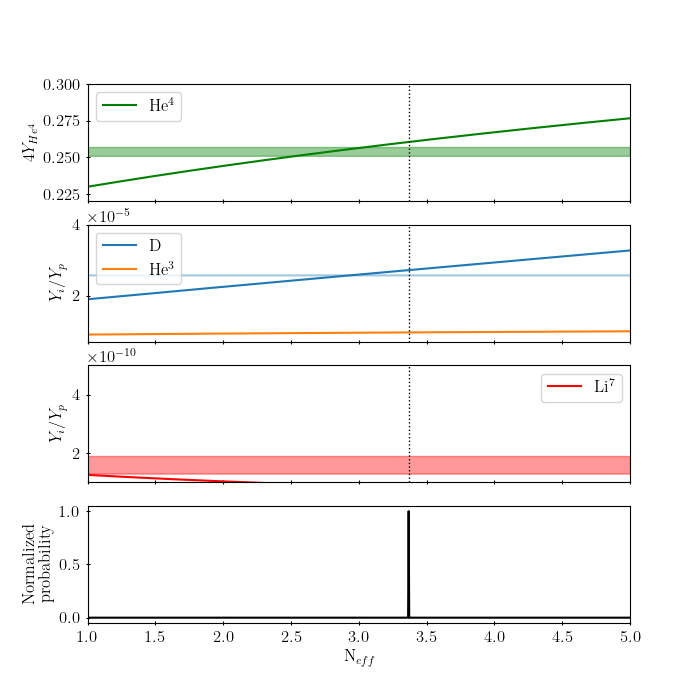
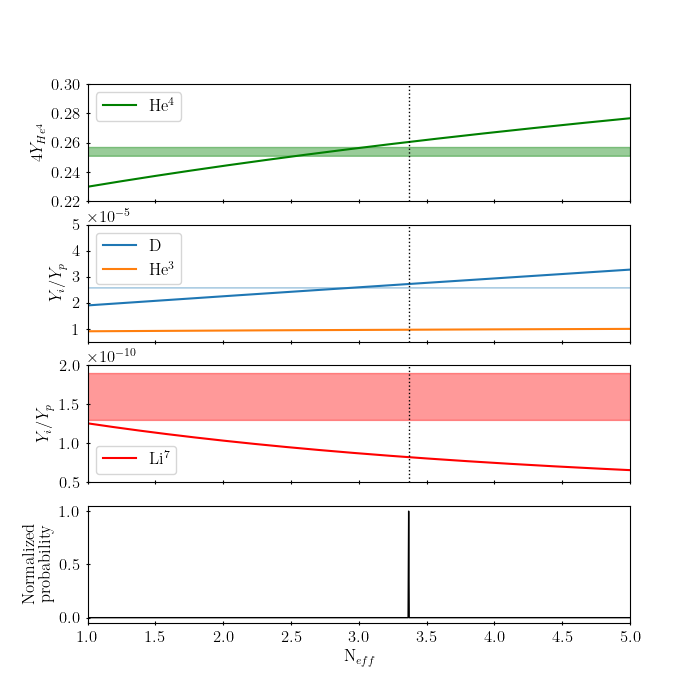
fix plots

diff --git a/project-2/plot_best_params.py b/project-2/plot_best_params.py
@@ -70,9 +70,10 @@ ax1.plot(O_b0, 4 * YHe4, color='green', label=r'He$^4$')
 ax1.fill_between(O_b0, obs_4YHe4_lower, obs_4YHe4_upper, color='green', alpha=.4)
 ax1.plot([best_O_b0, best_O_b0], [.2, .33], ls='dotted', lw=1, color='black')
 ax1.set_ylim([.2, .33])
+ax1.set_yticks(np.linspace(.2, .3, 3))
 ax1.set_ylabel(r'$4Y_{He^4}$')
 ax1.set_xscale('log')
-ax1.legend()
+ax1.legend(loc='upper left')
 
 ax2.plot(O_b0, YDYp, label='D')
 ax2.plot(O_b0, YHe3, label=r'He$^3$')
@@ -88,6 +89,7 @@ ax2.legend(loc='center left')
 
 ax3.plot(O_b0, prob/np.max(prob), lw=1, color='black')
 ax3.set_xlim([1e-2, 1])
+ax3.set_yticks(np.linspace(0, 1, 3))
 ax3.set_ylabel('Normalized\nprobability')
 ax3.set_xscale('log')
 ax3.set_xlabel(r'$\Omega_{b0}$')
@@ -139,25 +141,28 @@ ax1.plot(Neff, 4 * YHe4, color='green', label=r'He$^4$')
 ax1.fill_between(Neff, obs_4YHe4_lower, obs_4YHe4_upper, color='green', alpha=.4)
 ax1.plot([best_Neff, best_Neff], [.22, .30], ls='dotted', lw=1, color='black')
 ax1.set_ylim([.22, .30])
+ax1.set_yticks(np.linspace(.22, .3, 5))
 ax1.set_ylabel(r'$4Y_{He^4}$')
 ax1.legend()
 
 ax2.plot(Neff, YDYp, label='D')
 ax2.plot(Neff, YHe3, label=r'He$^3$')
 ax2.fill_between(Neff, obs_YDYp_lower, obs_YDYp_upper, alpha=.4)
-ax2.plot([best_Neff, best_Neff], [.7e-5, 4e-5], ls='dotted', lw=1, color='black')
+ax2.plot([best_Neff, best_Neff], [.5e-5, 5e-5], ls='dotted', lw=1, color='black')
 ax2.set_ylabel(r'$Y_i/Y_p$')
-ax2.set_ylim([.7e-5, 4e-5])
+ax2.set_ylim([.5e-5, 5e-5])
+ax2.set_yticks(np.linspace(1, 5, 5)*1e-5)
 ax2.legend()
 
 ax3.plot(Neff, YLi7Yp, color='red', label=r'Li$^7$')
 ax3.fill_between(Neff, obs_YLi7Yp_lower, obs_YLi7Yp_upper, color='red', alpha=.4)
-ax3.plot([best_Neff, best_Neff], [1e-10, 5e-10], ls='dotted', lw=1, color='black')
+ax3.plot([best_Neff, best_Neff], [5e-11, 2e-10], ls='dotted', lw=1, color='black')
 ax3.set_ylabel(r'$Y_i/Y_p$')
-ax3.set_ylim([1e-10, 5e-10])
-ax3.legend()
+ax3.set_ylim([5e-11, 2e-10])
+ax3.set_yticks(np.linspace(.5, 2, 4)*1e-10)
+ax3.legend(loc='lower left')
 
-ax4.plot(Neff, prob/np.max(prob), color='black')
+ax4.plot(Neff, prob/np.max(prob), color='black', lw=1)
 ax4.set_xlim([1, 5])
 ax4.set_ylabel('Normalized\nprobability')
 ax4.set_xlabel(r'N$_{eff}$')
